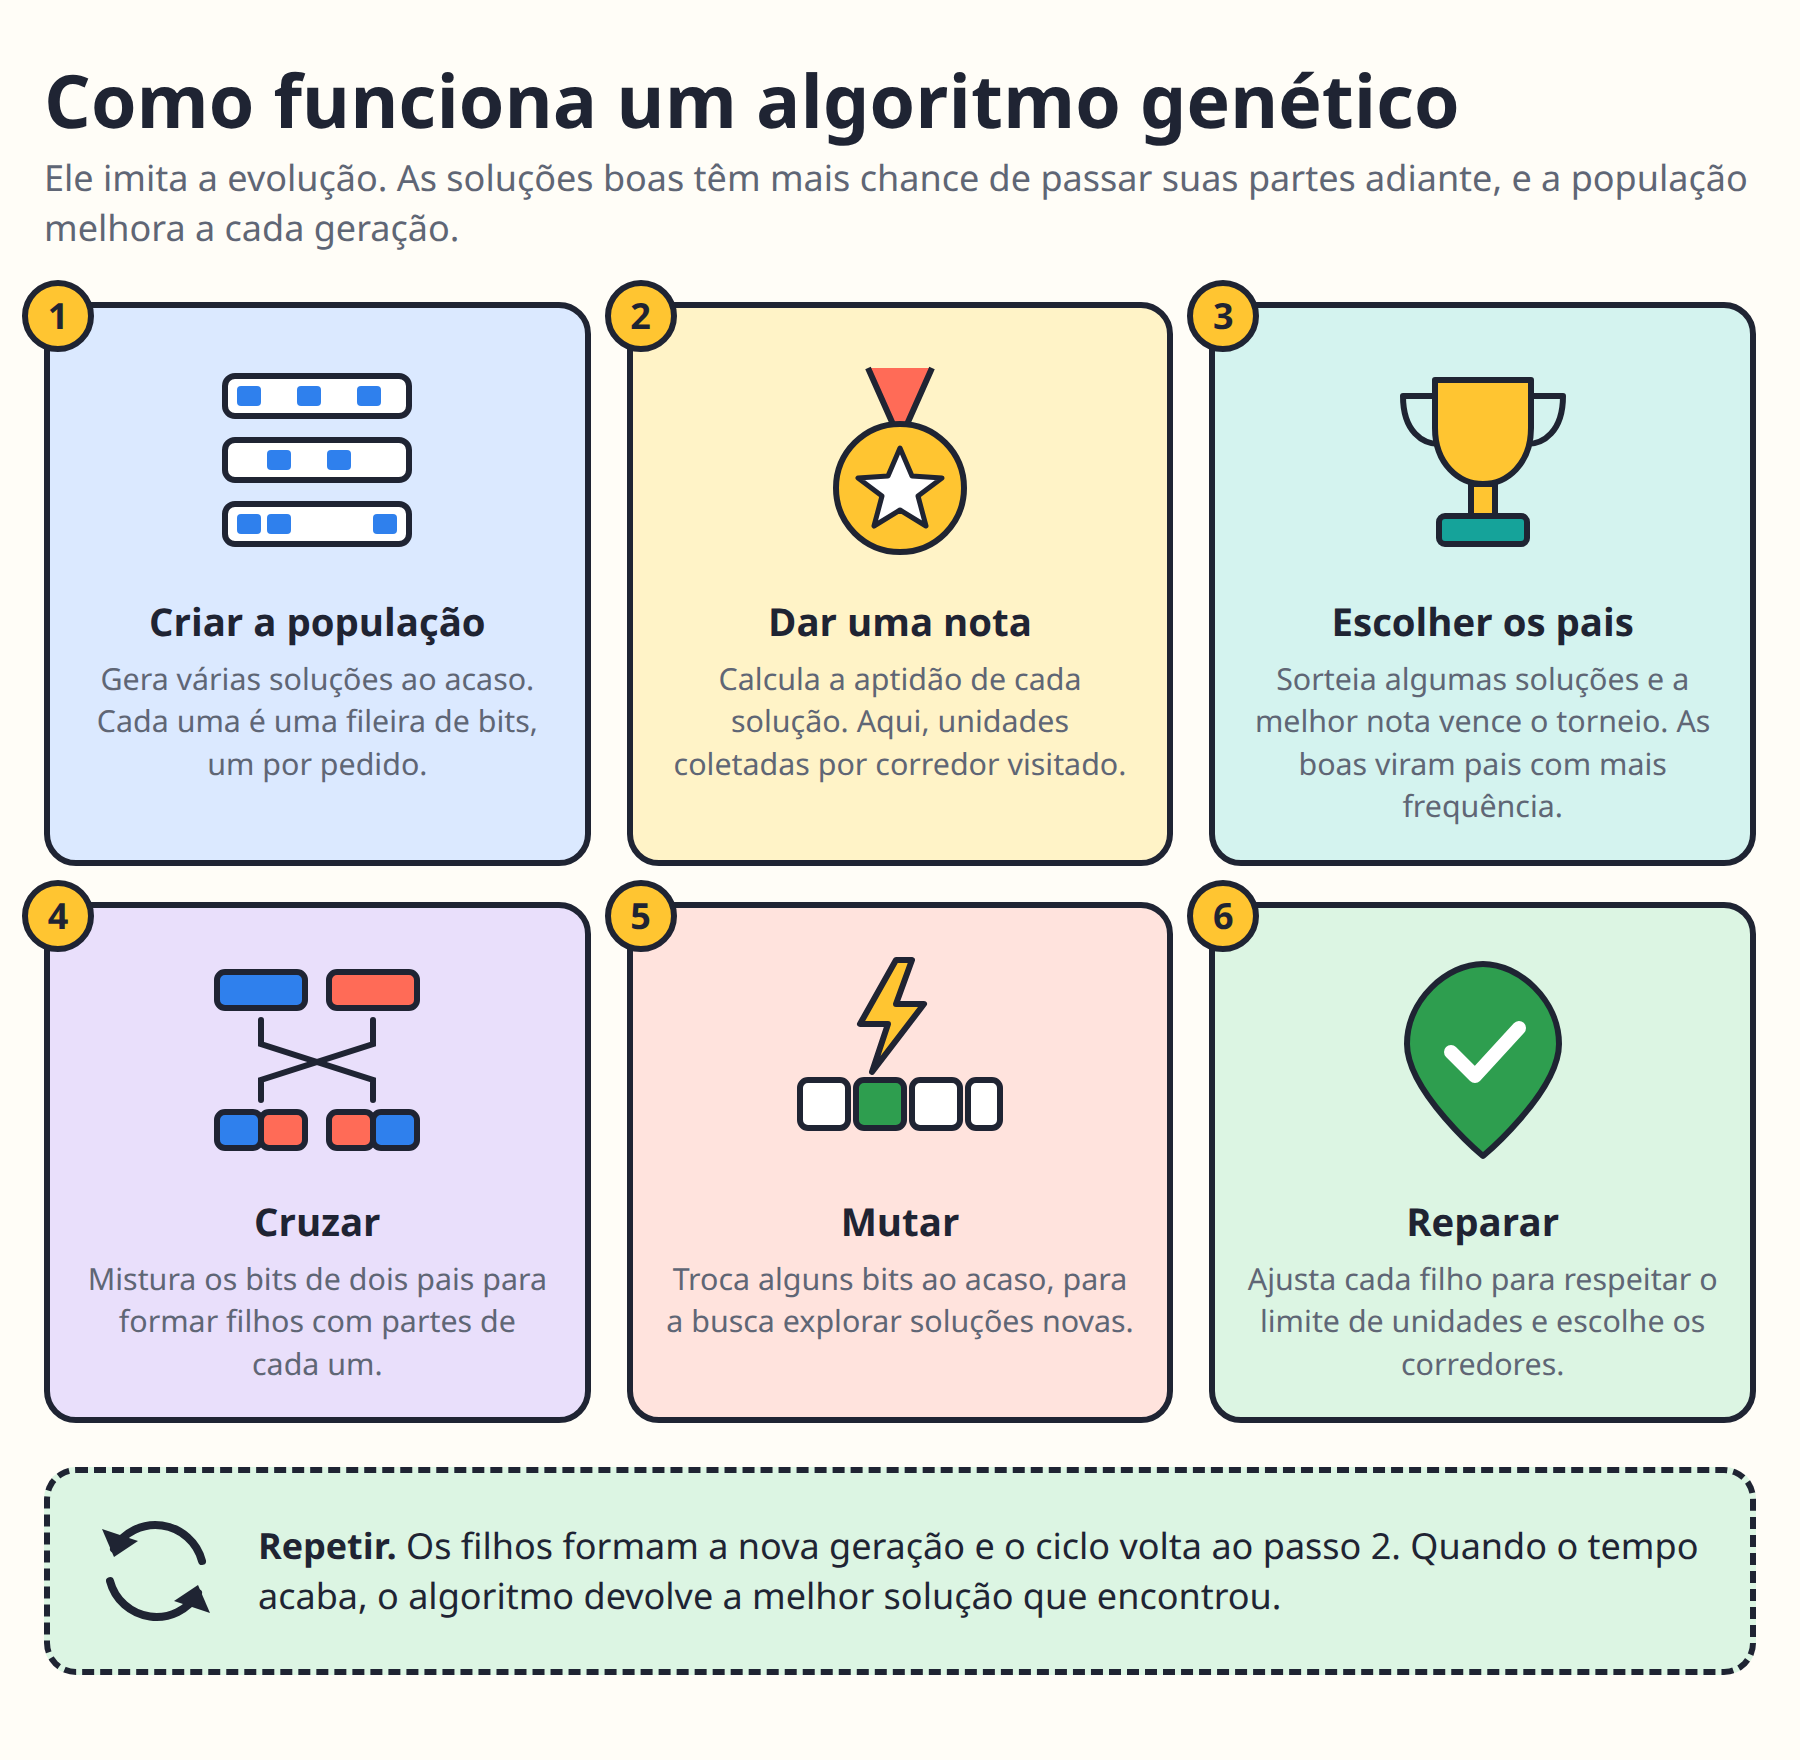
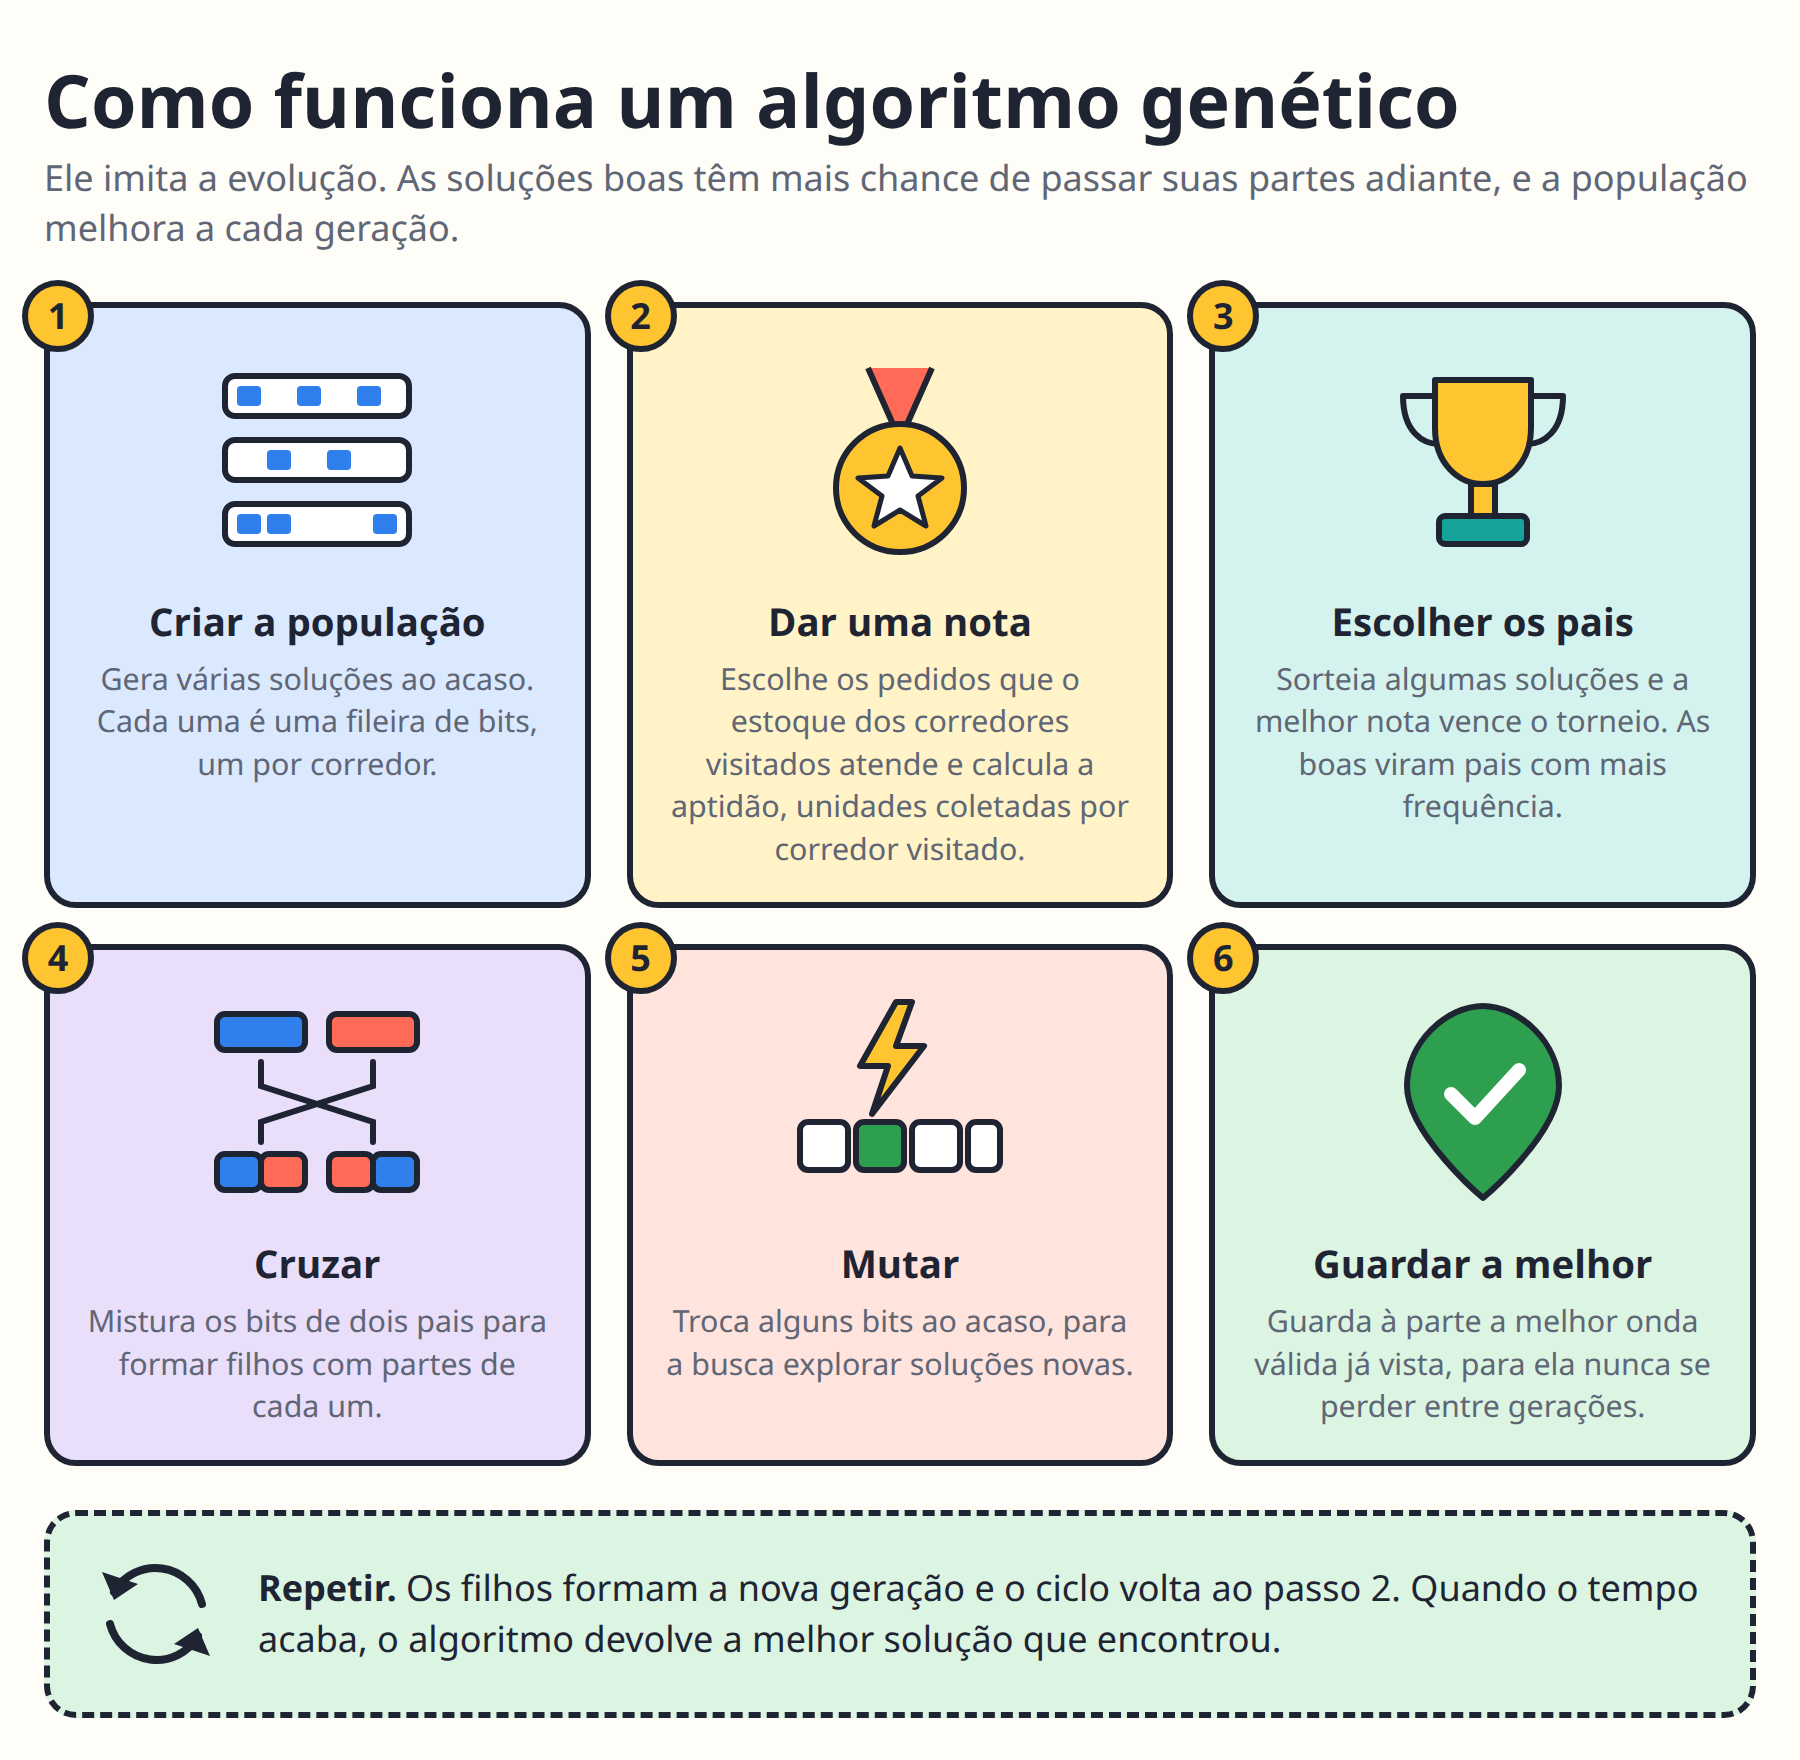
docs: sync docs with genetic algorithm

Changed region(s): [[0.0, 0.375, 0.9956, 1.0], [0.1244, 0.4062, 0.2489, 0.4375]]

diff --git a/docs/plano-implementacao.md b/docs/plano-implementacao.md
@@ -37,7 +37,9 @@ TPF/
 │   ├── exact_algorithm.py        Dinkelbach com HiGHS
 │   ├── genetic_algorithm.py      cromossomo, decodificador, evolução
 │   └── checker.py                checker.py oficial copiado sem mudanças
-├── tests/test_instance.py        testes de exemplo e de propriedade
+├── tests/
+│   ├── test_instance.py          testes de exemplo e de propriedade
+│   └── test_genetic_algorithm.py testes do decodificador e da evolução
 └── pyproject.toml
 ```
 
@@ -47,7 +49,7 @@ Cada `.txt` segue o formato oficial lido pelo `checker.py`. Cada `.json` guarda 
 
 ## Dependências externas
 
-- `highspy`: solver gratuito de Programação Linear Inteira que resolve o modelo exato.
+- `highspy`: solver gratuito de Programação Linear Inteira que resolve o algoritmo exato.
 - `pytest`: roda os testes. Fica no grupo de desenvolvimento.
 - `hypothesis`: gera entradas aleatórias para os testes de propriedade. Fica no grupo de desenvolvimento.
 - `numpy`: faz as operações sobre vetores do algoritmo genético. O `checker.py` oficial já depende dela.
@@ -56,9 +58,9 @@ JSON, `itertools` e `time` vêm da biblioteca padrão.
 
 ## Algoritmos
 
-**Exato.** O Dinkelbach maximiza "unidades − λ·corredores" com as restrições (2), (3) e (4) da descrição oficial e depois atualiza λ para unidades/corredores da solução encontrada. Ele para quando o máximo chega a zero. Se os 600 s acabarem, o limite inferior é o λ atual e o limite superior é λ + F̄, onde F̄ é o limite superior que o HiGHS devolve para a última rodada. Essa conta vale porque o número de corredores de qualquer solução é pelo menos 1.
+**Algoritmo exato.** O Dinkelbach maximiza "unidades − λ·corredores" com as restrições (2), (3) e (4) da descrição oficial e depois atualiza λ para unidades/corredores da solução encontrada. Ele para quando o máximo chega a zero. Se os 600 s acabarem, o limite inferior é o λ atual e o limite superior é λ + F̄, onde F̄ é o limite superior que o HiGHS devolve para a última rodada. Essa conta vale porque o número de corredores de qualquer solução é pelo menos 1.
 
-**Genético.** O indivíduo é um vetor de bits sobre os corredores, e o bit 1 quer dizer que a onda visita o corredor. Um decodificador transforma os corredores em pedidos. Ele soma o estoque dos corredores visitados, fica com os pedidos que cabem nesse estoque, divide o estoque disputado pela ordem de prioridade dos pedidos (do maior para o menor) e para de acrescentar pedidos ao chegar a UB. A onda respeita o estoque e UB por construção. Se ficar abaixo de LB, a aptidão é menos o que falta para LB. Caso contrário, é unidades/corredores. O resto é torneio, cruzamento uniforme, mutação por troca de bit e parada por número de gerações, com o limite de tempo como trava. Os parâmetros (tamanho da população, tamanho do torneio, taxa de mutação, número máximo de gerações, semente e tempo limite) vêm do JSON de configuração.
+**Algoritmo genético.** O indivíduo é um vetor de bits sobre os corredores, e o bit 1 quer dizer que a onda visita o corredor. Um decodificador transforma os corredores em pedidos. Ele soma o estoque dos corredores visitados, fica com os pedidos que cabem nesse estoque, divide o estoque disputado pela ordem de prioridade dos pedidos (do maior para o menor) e para de acrescentar pedidos ao chegar a UB. A onda respeita o estoque e UB por construção. Se ficar abaixo de LB, a aptidão é menos o que falta para LB. Caso contrário, é unidades/corredores. O resto é torneio, cruzamento uniforme, mutação por troca de bit e parada por número de gerações, com o limite de tempo como trava. Os parâmetros (tamanho da população, tamanho do torneio, taxa de mutação, número máximo de gerações, semente e tempo limite) vêm do JSON de configuração.
 
 ## Passos e critério de pronto
 
@@ -76,14 +78,16 @@ Todo passo só termina com `ruff check .`, `complexipy .`, `vulture .` e `pytest
 
 A base (passos 1 a 3) já estará pronta quando a divisão começar.
 
-1. **Slides.** A apresentação inteira, com a tabela de resultados recebida do integrante 5.
-2. **Exato.** `exact_algorithm.py` (passo 5).
-3. **Genético.** `genetic_algorithm.py` (passo 4).
-4. **Lotes.** `batch_runner.py` e os JSON de `configs/` (parte do passo 6).
-5. **CLI e resultados.** `cli.py` (parte do passo 6), as 60 rodadas e a tabela contra os valores oficiais (passo 7).
+1. **Slides.** A apresentação inteira (issue #7), com a tabela de resultados recebida do integrante 5.
+2. **Algoritmo exato.** `exact_algorithm.py` (passo 5, issue #12).
+3. **Algoritmo genético.** `genetic_algorithm.py` (passo 4, issue #13).
+4. **Lotes.** `batch_runner.py` e os JSON de `configs/` (parte do passo 6, issue #14).
+5. **CLI e resultados.** `cli.py` (parte do passo 6), as 60 rodadas e a tabela contra os valores oficiais (passo 7, issue #15).
+
+Duas issues extras ainda sem responsável completam a divisão. A #17 gera os gráficos dos slides em `charts.py`, e a #18 cria uma interface web em React para mostrar os resultados e rodar o algoritmo genético com parâmetros escolhidos na tela.
 
 ## Riscos
 
-- A qualidade do genético foi medida só em `b_instance_0001` e `x_instance_0014`, ambas acima de 99% do melhor valor oficial. As outras 28 instâncias ainda não foram rodadas.
+- A qualidade do algoritmo genético foi medida só em `b_instance_0001` e `x_instance_0014`, ambas acima de 99% do melhor valor oficial. As outras 28 instâncias ainda não foram rodadas.
 - O limite de 600 s é uma suposição até o professor responder.
 - Uma instância nova apresentada na hora não cabe em 600 s dentro dos 5 minutos de apresentação.

diff --git a/CLAUDE.md b/CLAUDE.md
@@ -1,6 +1,6 @@
 # CLAUDE.md
 
-Course project (APA, UNIPAMPA): solve the SBPO 2025 / Mercado Livre **Wave Order Picking** problem in Python with an exact model (HiGHS and the Dinkelbach method) as the reference and a genetic algorithm as the proposed solution. Five students, graded on solution quality against other groups **and** on each member defending the code in a 5-minute presentation.
+Course project (APA, UNIPAMPA): solve the SBPO 2025 / Mercado Livre **Wave Order Picking** problem in Python with an exact algorithm (HiGHS and the Dinkelbach method) as the reference and a genetic algorithm as the proposed solution. Five students, graded on solution quality against other groups **and** on each member defending the code in a 5-minute presentation.
 
 Read first: `docs/plano-implementacao.md` (every decision and the task split), `docs/problem.md` (the problem), `docs/workflow.md` (team rules). The course statement overrides the challenge rules. Where it says nothing, the challenge README and rules apply (600 seconds per instance, official output format).
 
@@ -28,6 +28,8 @@ uv run python src/order_selection/checker.py <instance> <solution>
 
 - **Do not modify `src/order_selection/checker.py` or `data/`.** They are the official files.
 - A solution must pass the official checker. An infeasible solution scores zero.
+- Every change keeps the objective (1), the constraints (2), (3) and (4) and the file formats of `docs/reference/pt_problem_description.pdf`, and the rules of the course statement (Moodle page). When a rule changes, the issue, `docs/plano-implementacao.md` and the code change in the same pull request.
+- Portuguese text writes "algoritmo exato" and "algoritmo genético" in full, never "exato" or "genético" alone.
 - Keep the `instance.py` interface stable, because every other module builds on it.
 - Every random draw uses a seeded generator (`random.Random(seed)` or `np.random.default_rng(seed)`), and every duration uses `time.perf_counter()`.
 

diff --git a/README.md b/README.md
@@ -4,7 +4,7 @@ Solver for the **Wave Order Picking** problem of the [SBPO 2025 / Mercado Livre 
 
 **Goal:** choose a subset of orders (the _wave_) and a subset of warehouse aisles that maximize _units picked per aisle visited_, respecting the wave size limits and the stock of each item. Details in [docs/problem.md](docs/problem.md).
 
-**Approach:** an exact model solved by HiGHS with the Dinkelbach method as the reference, and a genetic algorithm that chooses aisles as the proposed solution. The full plan, with every decision, is in [docs/plano-implementacao.md](docs/plano-implementacao.md).
+**Approach:** an exact algorithm solved by HiGHS with the Dinkelbach method as the reference, and a genetic algorithm that chooses aisles as the proposed solution. The full plan, with every decision, is in [docs/plano-implementacao.md](docs/plano-implementacao.md).
 
 ## Quick start
 
@@ -17,7 +17,7 @@ uv run python src/order_selection/checker.py <instance> <solution>
 ## Repository
 
 ```
-src/order_selection/   package (instance files, exact model, genetic algorithm, batch runner, CLI)
+src/order_selection/   package (instance files, exact algorithm, genetic algorithm, batch runner, CLI)
 tests/                 unit and property tests
 data/                  the 30 instances of datasets B and X (prefix b_ or x_) and best_objectives.csv
 configs/               batch configuration files
